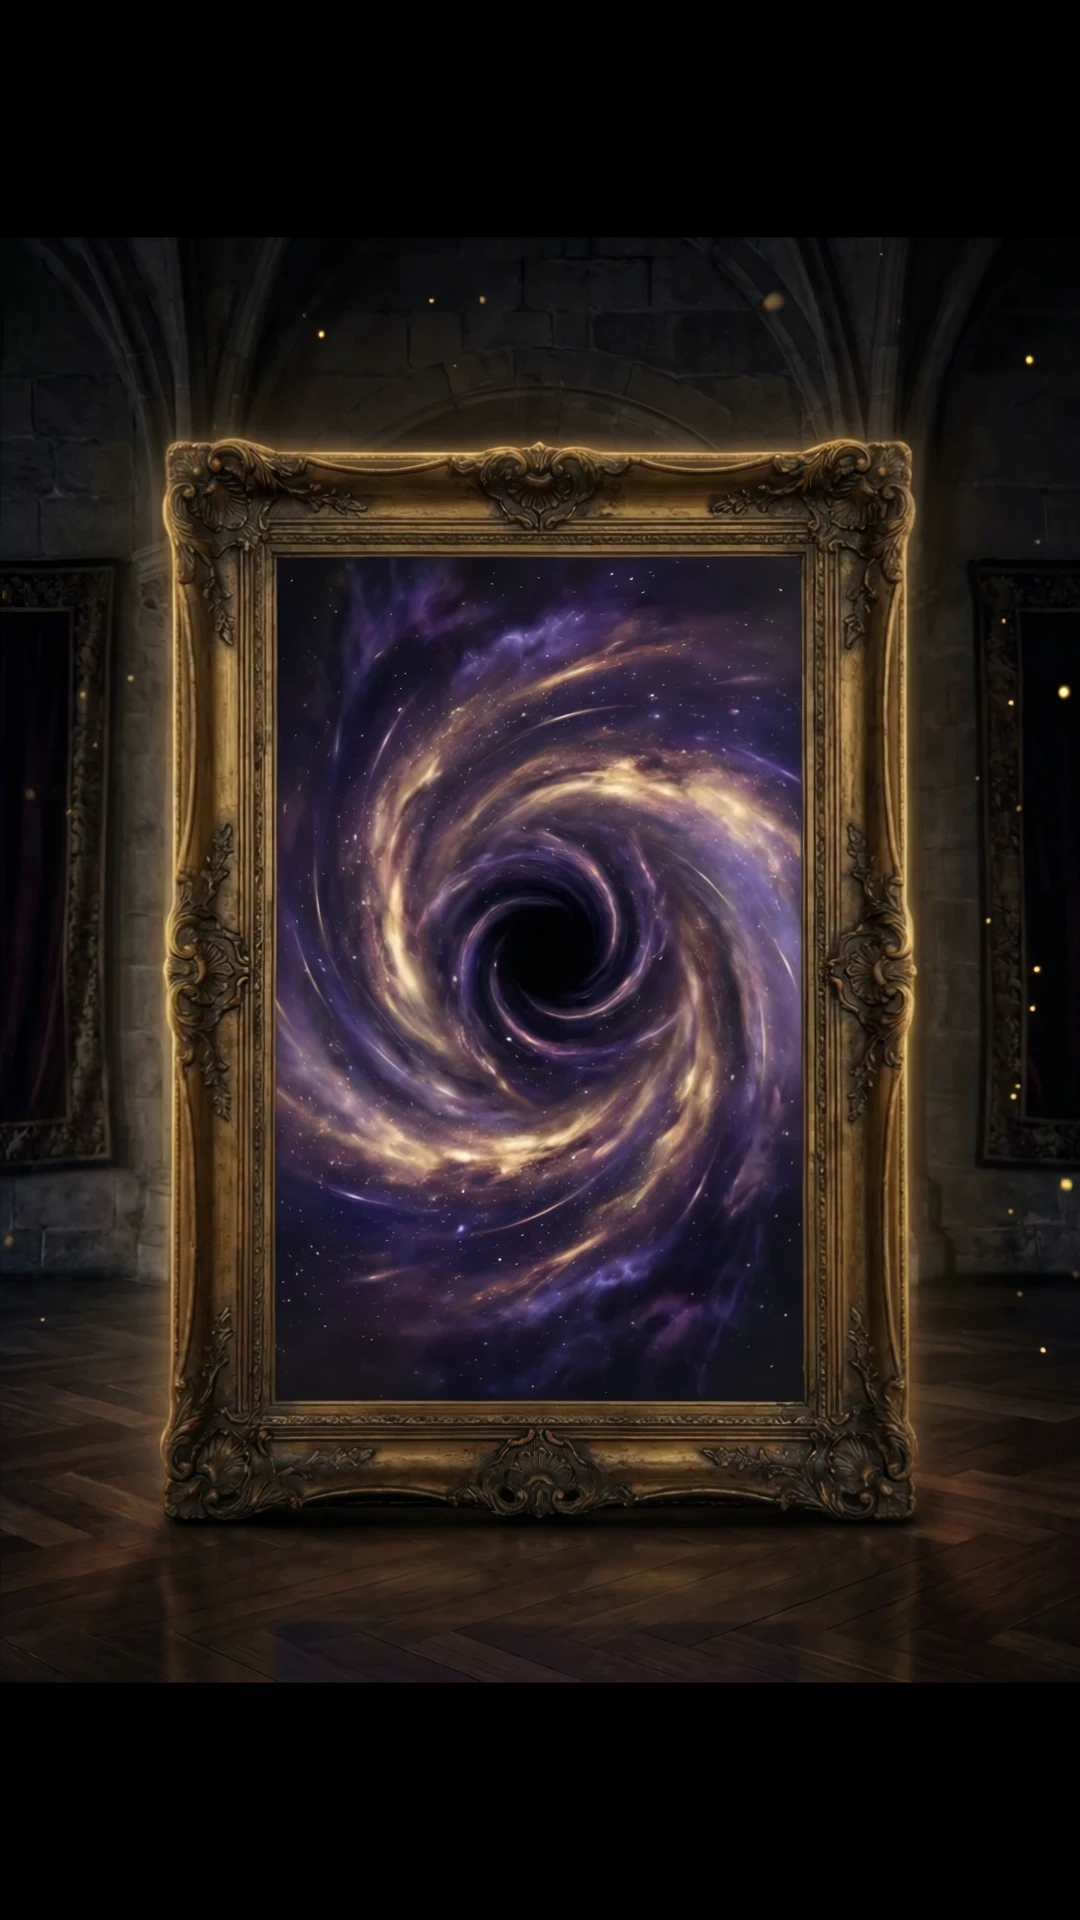
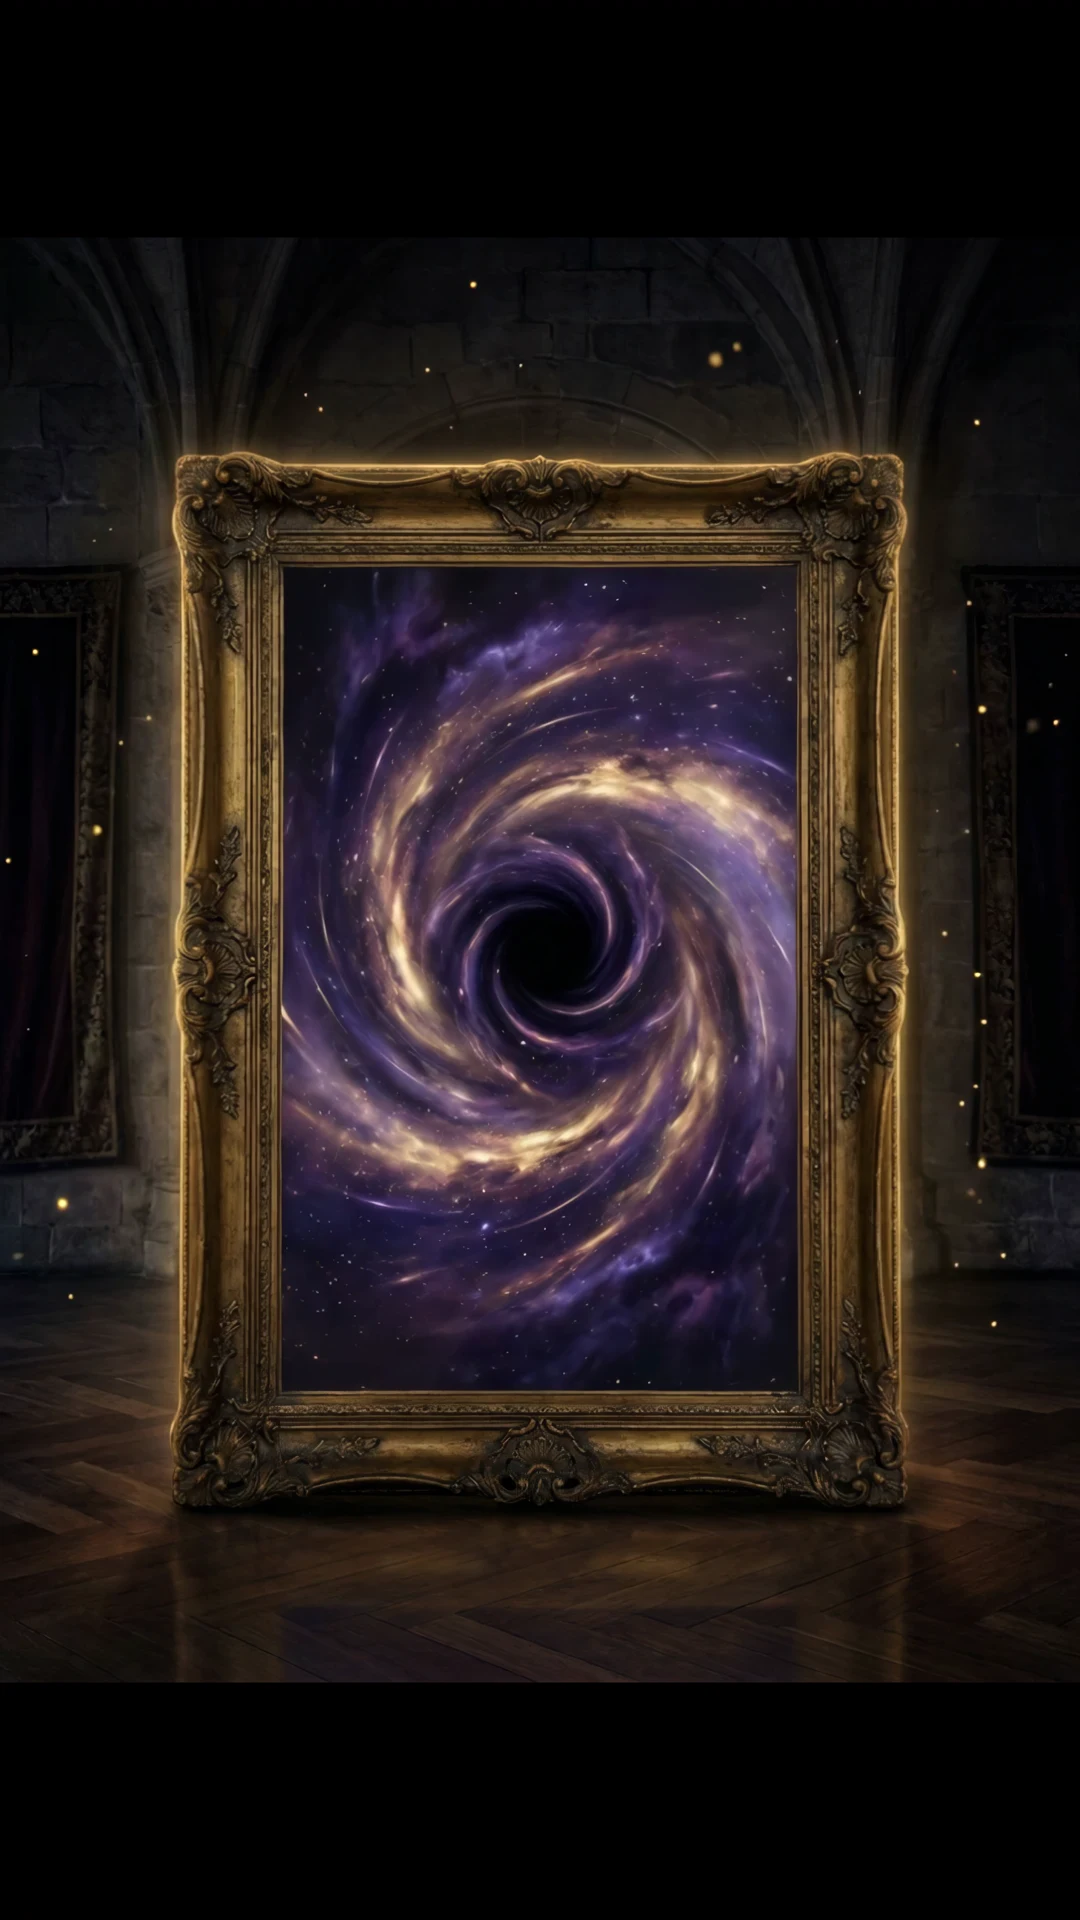
Karşılama aynası: kilitli çerçeveli yeni video (zoom kaldırıldı)
Yeni Higgsfield videosunda çerçeve tamamen sabit/kilitli, yalnız içindeki
girdap dönüyor (gerçek bir tablo hissi). Bizim CSS ken-burns zoom'umuz da
çerçeveyi büyütüyordu — kaldırıldı; artık çerçeve hiç büyümüyor.

- Yeni kilitli-çerçeve videosu Topaz ile 4K'ya upscale edildi → 1080x1920
  sorunsuz döngü (crf 23, ~1.3MB); mobil + masaüstü keskin
- Poster karesi 1080p yenilendi
- .film'den ken-burns animasyonu ve scale tamamen çıkarıldı (çerçeve kilitli)

Claude-Session: https://claude.ai/code/session_016vEmeDv1QKx4bsXvb1Tc5M

diff --git a/liderlik-aynasi/components/AynaSahnesi.tsx b/liderlik-aynasi/components/AynaSahnesi.tsx
@@ -56,11 +56,9 @@ export default function AynaSahnesi() {
           width: 100%;
           height: 100%;
           object-fit: cover;
-          object-position: center 42%;
-          transform-origin: center 40%;
-          /* Hafif ken-burns; geniş ekranda dikey video zaten büyütüldüğü için
-             zoom düşük tutuldu (aşırı zoom bulanıklığı artırır). */
-          animation: kenBurns 32s ease-in-out infinite alternate;
+          object-position: center 44%;
+          /* Çerçeve KİLİTLİ: zoom/ken-burns yok — gerçek bir tablo gibi sabit
+             durur, yalnız içindeki girdap döner (videonun kendi hareketi). */
         }
         /* Girdabın merkezinde nefes alan yumuşak ışıma — derinlik hissi katar */
         .isima {
@@ -90,14 +88,6 @@ export default function AynaSahnesi() {
             rgba(4, 16, 28, 0.55) 100%
           );
         }
-        @keyframes kenBurns {
-          from {
-            transform: scale(1.02);
-          }
-          to {
-            transform: scale(1.07);
-          }
-        }
         @keyframes nefes {
           0%,
           100% {
@@ -110,10 +100,6 @@ export default function AynaSahnesi() {
           }
         }
         @media (prefers-reduced-motion: reduce) {
-          .film {
-            animation: none;
-            transform: scale(1.04);
-          }
           .isima {
             animation: none;
           }